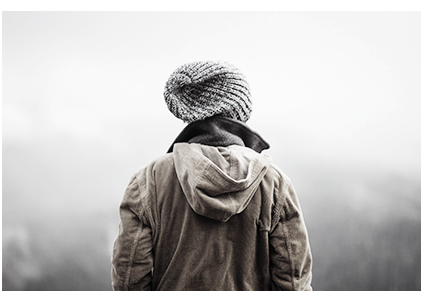
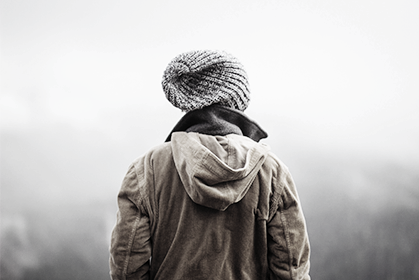
images

diff --git a/html-css/module-01-02/index.html b/html-css/module-01-02/index.html
@@ -3,7 +3,7 @@
   <head>
     <meta charset="UTF-8" />
     <meta name="viewport" content="width=device-width, initial-scale=1.0" />
-    <title>HTML5 basics</title>
+    <title>HTML5</title>
   </head>
 
   <body>
@@ -29,7 +29,11 @@
       <section>
         <ul>
           <li>
-            <img src="./images/image-1.png" alt="Людина на фестивалі" />
+            <img
+              src="./images/image-1.png"
+              alt="Людина на фестивалі"
+              width="420"
+            />
             <p>Lifestyle</p>
             <h2>More than just a music festival</h2>
             <p>
@@ -42,7 +46,7 @@
             </p>
           </li>
           <li>
-            <img src="./images/image-2.png" alt="Чашка кави" />
+            <img src="./images/image-2.png" alt="Чашка кави" width="420" />
             <p>Lifestyle</p>
             <h2>Life tastes better with coffee</h2>
 
@@ -57,7 +61,7 @@
             </p>
           </li>
           <li>
-            <img src="./images/image-3.png" alt="Дві дівчинки" />
+            <img src="./images/image-3.png" alt="Дві дівчинки" width="420" />
             <p>Photodiary</p>
             <h2>American dream</h2>
             <p>
@@ -71,7 +75,7 @@
             </p>
           </li>
           <li>
-            <img src="./images/image-4.png" alt="Хлопчик" />
+            <img src="./images/image-4.png" alt="Хлопчик" width="420" />
             <p>Photodiary</p>
             <h2>A day exploring the Alps</h2>
             <p>
@@ -87,10 +91,7 @@
         </ul>
 
         <button type="button">Load more</button>
-
       </section>
-
     </main>
-
   </body>
 </html>
